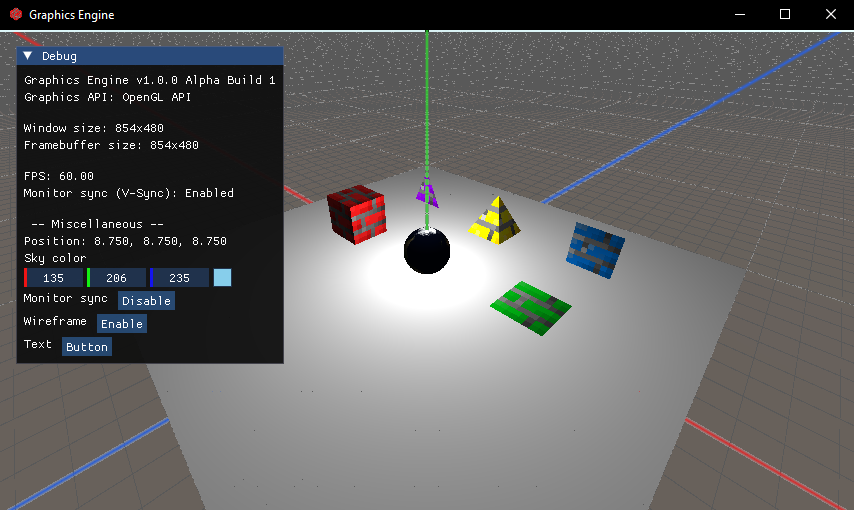
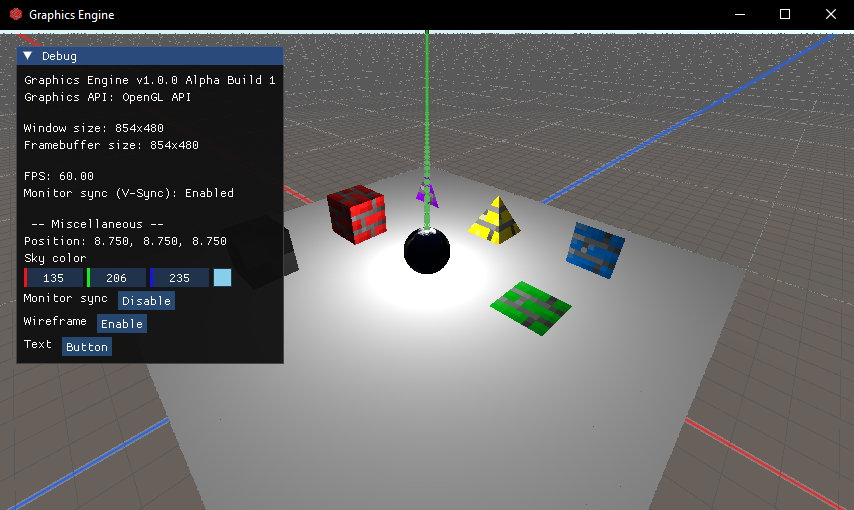
Update 'README.md' and edit some parts of the code

Changed region(s): [[0.0, 0.0588, 1.0, 0.0882], [0.3349, 0.4412, 0.3653, 0.5294]]

diff --git a/Engine/Source/Graphics/Scene/Sample.cpp b/Engine/Source/Graphics/Scene/Sample.cpp
@@ -81,12 +81,12 @@ static const std::array<std::string, 6> skyCubemap
 
 Engine::Sample::Sample(Core::App& app)
 	: Scene(app), 
+	skyShader(ProjectDirectory "/Resource/Shader/Sky/Sky.vert", ProjectDirectory "/Resource/Shader/Sky/Sky.frag"),
+	sky(skyShader, std::vector<std::string>(skyCubemap.begin(), skyCubemap.end())),
+	camera(app.window->GetWindow(), Camera::ProjectionMode::PERSPECTIVE, Camera::RotationMode::EULER, glm::vec3(8.75f, 8.75f, 8.75f), 70.0f, 0.001f, 1000.0f),
 	grid(), 
 	objects(), 
 	lights(), 
-	camera(app.window->GetWindow(), Camera::ProjectionMode::PERSPECTIVE, Camera::RotationMode::EULER, glm::vec3(8.75f, 8.75f, 8.75f), 70.0f, 0.001f, 1000.0f),
-	skyShader(ProjectDirectory "/Resource/Shader/Sky/Sky.vert", ProjectDirectory "/Resource/Shader/Sky/Sky.frag"),
-	sky(skyShader, std::vector<std::string>(skyCubemap.begin(), skyCubemap.end())),
 	meshShader(ProjectDirectory "/Resource/Shader/Mesh/Mesh.vert", ProjectDirectory "/Resource/Shader/Mesh/Mesh.frag"),
 	fbo(app.window->GetFramebufferSize())
 {
@@ -145,6 +145,10 @@ Engine::Sample::~Sample()
 
 void Engine::Sample::Render()
 {
+	sky.shader.Activate();
+	glUniform1i(glGetUniformLocation(sky.shader.programID, "skySampler"), 0);
+	sky.Render();
+
 	glm::vec4 lightColor = glm::vec4(0.0f);
 	glm::vec3 lightPosition = glm::vec3(0.0f);
 
@@ -171,10 +175,6 @@ void Engine::Sample::Render()
 
 		mesh->Render();
 	}
-
-	sky.shader.Activate();
-	glUniform1i(glGetUniformLocation(sky.shader.programID, "skySampler"), 0);
-	sky.Render();
 
 	grid.Render();
 }
@@ -257,6 +257,11 @@ void Engine::Sample::Update()
 	grid.Update();
 
 	//fbo.Unbind();
+}
+
+Engine::Camera Engine::Sample::GetCamera() const
+{
+	return camera;
 }
 
 GLuint Engine::Sample::GetViewportTexture() const

diff --git a/Engine/Source/Graphics/Scene/Sample.h b/Engine/Source/Graphics/Scene/Sample.h
@@ -16,6 +16,8 @@
 #include "App.h"
 
 #include "Scene.h"
+#include "../Sky/Sky.h"
+#include "../Camera/Camera.h"
 #include "../Grid/Grid.h"
 #include "../Mesh/Mesh.h"
 #include "../Mesh/Cube.h"
@@ -26,8 +28,6 @@
 #include "../Mesh/Triangle.h"
 #include "../Model/Model.h"
 #include "../Light/Light.h"
-#include "../Camera/Camera.h"
-#include "../Sky/Sky.h"
 
 namespace Engine
 {
@@ -39,13 +39,11 @@ namespace Engine
 		Core::FBO fbo;
 
 		Sky sky;
+		Camera camera;
+		Grid grid;
 
 		std::vector<std::unique_ptr<Mesh>> objects;
 		std::vector<std::unique_ptr<Light>> lights;
-
-	public:
-		Grid grid;
-		Camera camera;
 
 	public:
 		Sample(Core::App& app);
@@ -54,6 +52,7 @@ namespace Engine
 		void Render() override;
 		void Update() override;
 
+		Camera GetCamera() const override;
 		GLuint GetViewportTexture() const override;
 		glm::vec2 GetViewportSize() const override;
 	};

diff --git a/Engine/Source/Graphics/Scene/World.cpp b/Engine/Source/Graphics/Scene/World.cpp
@@ -12,9 +12,10 @@ static const std::array<std::string, 6> skyCubemap
 
 Engine::World::World(Core::App& app)
 	: Scene(app),
-	grid(),
+	sky(std::vector<std::string>(skyCubemap.begin(), skyCubemap.end())),
 	camera(app.window->GetWindow(), Camera::ProjectionMode::PERSPECTIVE, Camera::RotationMode::EULER, glm::vec3(8.75f, 8.75f, 8.75f), 70.0f, 0.001f, 1000.0f),
-	sky(std::vector<std::string>(skyCubemap.begin(), skyCubemap.end()))
+	grid(),
+	fbo(app.window->GetFramebufferSize())
 {
 }
 
@@ -81,12 +82,17 @@ void Engine::World::Update()
 	grid.Update();
 }
 
+Engine::Camera Engine::World::GetCamera() const
+{
+	return camera;
+}
+
 GLuint Engine::World::GetViewportTexture() const
 {
-	return GLuint();
+	return fbo.GetColorTexture();
 }
 
 glm::vec2 Engine::World::GetViewportSize() const
 {
-	return glm::vec2();
+	return fbo.GetSize();
 }

diff --git a/Engine/Source/Graphics/Scene/World.h b/Engine/Source/Graphics/Scene/World.h
@@ -3,18 +3,21 @@
 #ifndef WORLD_H
 #define WORLD_H
 
+#include "Graphics/Shader/FBO.h"
 #include "App.h"
 
 #include "Scene.h"
-#include "../Grid/Grid.h"
-#include "../Camera/Camera.h"
 #include "../Sky/Sky.h"
+#include "../Camera/Camera.h"
+#include "../Grid/Grid.h"
 
 namespace Engine
 {
 	class World : public Scene
 	{
 	private:
+		Core::FBO fbo;
+
 		Grid grid;
 		Sky sky;
 
@@ -28,6 +31,7 @@ namespace Engine
 		void Render() override;
 		void Update() override;
 
+		Camera GetCamera() const override;
 		GLuint GetViewportTexture() const override;
 		glm::vec2 GetViewportSize() const override;
 	};

diff --git a/Engine/Source/Engine.cpp b/Engine/Source/Engine.cpp
@@ -34,8 +34,8 @@ void Engine::Engine::Update()
 
 		if (sample)
 		{
-			ui->coordinate = sample->camera.GetPosition();
-			//ui->ViewportWindow(sample->GetViewportTexture(), sample->GetViewportSize());
+			ui->coordinate = scene->GetCamera().GetPosition();
+			//ui->ViewportWindow(scene->GetViewportTexture(), scene->GetViewportSize());
 		}
 
 		ui->EndFrame();

diff --git a/Engine/Source/Graphics/Scene/Scene.h b/Engine/Source/Graphics/Scene/Scene.h
@@ -6,6 +6,7 @@
 #include <GLFW/glfw3.h>
 
 #include "App.h"
+#include "../Camera/Camera.h"
 
 namespace Engine
 {
@@ -24,6 +25,7 @@ namespace Engine
 		virtual void Render() = 0;
 		virtual void Update() = 0;
 
+		virtual Camera GetCamera() const = 0;
 		virtual GLuint GetViewportTexture() const = 0;
 		virtual glm::vec2 GetViewportSize() const = 0;
 	};

diff --git a/README.md b/README.md
@@ -16,7 +16,7 @@
 - Simple mesh rendering (Cube, sphere, pyramid, plane, quad and triangle)
 - Simple image texture support (Nearest filter, 4 color channels)
 - Basic 3 dimensional camera system with projections (Perspective and orthographic) and rotations (Euler and quaternion)
-- Simple scenes system with basic skybox support
+- Simple scenes system with basic skybox support using cubemaps
 - Basic input system for controlling window and graphics rendering
 - Simple user interface rendering
 - Automate libraries package searching
@@ -39,12 +39,14 @@
 <div align="center">
 	<img src="Asset/Image/Engine.png" alt="Graphics Engine">
 </div>
-Screenshot taken: 2026-08-06 15:59:30 UTC (2026-08-06T15:59:30Z)
+Screenshot taken: 2026-08-28 15:40:48 UTC (2026-08-28T15:40:48Z)
 
 ### How to use
 - Clone the repository using `git clone` command
 - Run `Build.py` using Python. For platform specific, run `Build.bat` (Microsoft Windows) or  `Build.sh` (Unix/Linux)
 - Once the project is successfully built, it should be ready to go
+- Use argument `-opengl` or `-vulkan` to switch between openGL and Vulkan graphics API
+- Use argument `--reset-window` to reset window values back to their default value
 
 ### Contributing
 - For further details about contributions. Please check [CONTRIBUTING.md](CONTRIBUTING.md)
